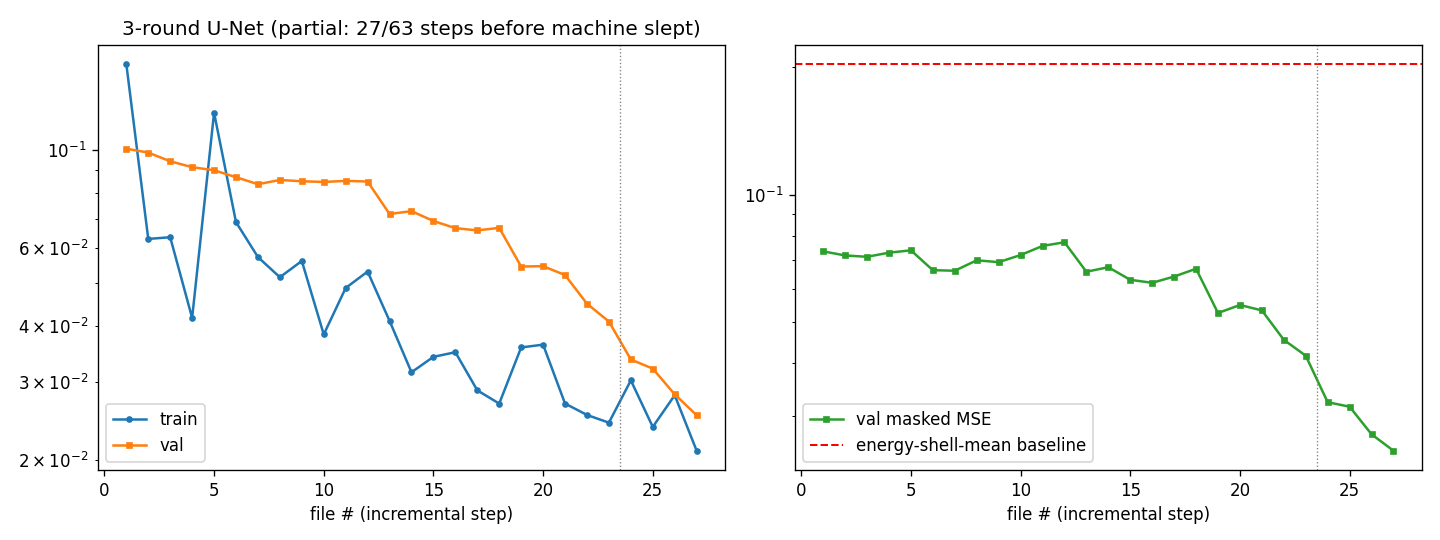
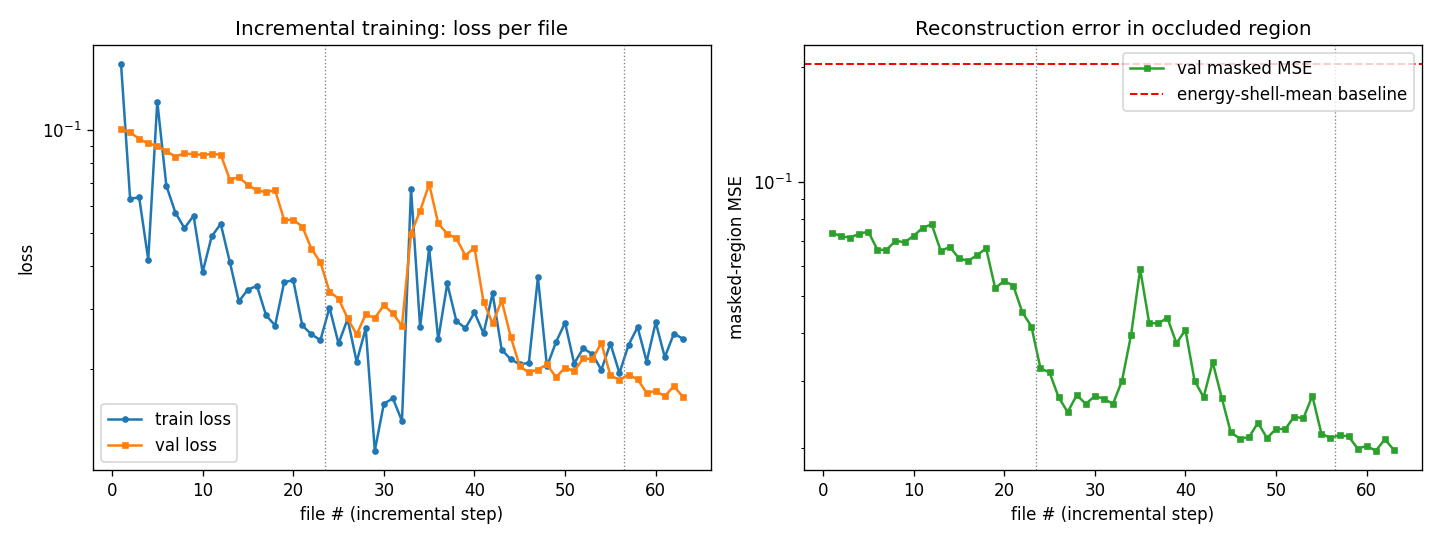
3-round U-Net completed via --resume; final result ~10x baseline
Resumed run finished all 63 steps. Final: val masked MSE 0.01984, MAE 0.0881
(~10.3x better than the energy-shell-mean interpolation baseline at 0.2035).

Round-by-round mean masked MSE: R1=0.067 -> R2=0.035 -> R3=0.023, monotonic.
Tiny wobble at the R2->R3 boundary (0.027 -> 0.034 -> 0.020 within a few files)
but no catastrophic forgetting -- replay buffer + warm-start working as
designed. Round-3 plateau sits at 0.019-0.022, so more rounds on the same data
have diminishing returns; the next real gain comes from more / more-diverse
data (NEXT_STEPS item 2).

The --resume mechanism (added mid-experiment after the first attempt died
overnight at step 27) was used in anger here -- no manual surgery, no spurious
loss jump on resume, run completed normally. End-to-end validation that
incremental training is robust to crashes.

diff --git a/RESULTS.md b/RESULTS.md
@@ -179,9 +179,26 @@ plasma-state-fingerprint visualisation, just not from a fully-converged encoder 
 
 ### 8d. Completed 3-round U-Net (continues §8b)
 
-> Filled when the resumed run completes (`outputs/unet_full_3rounds/`). What we expect to
-> learn from it: whether the curve continues its monotonic descent through all three rounds
-> (suggesting "more data" helps further), and whether round-3 forgetting appears.
+The resumed run finished all 63 incremental steps (`outputs/unet_full_3rounds/`):
+
+| | Masked MSE | Masked MAE | vs. baseline |
+|---|---:|---:|---:|
+| Energy-shell-mean baseline | 0.2035 | 0.4237 | 1.0× |
+| **3-D U-Net (full config, 3 rounds)** | **0.01984** | **0.0881** | **≈ 10.3× better** |
+
+**Round-by-round** (mean masked MSE within each round):  R1 = 0.067 → R2 = 0.035 → R3 = 0.023.
+The curve descends monotonically across rounds. Tiny wobble at the R2 → R3 boundary
+(0.027 → 0.034 → recovers to 0.020 within a few files) — visible but small, not catastrophic
+forgetting. Best single step was **0.01966** at step 61 (round 3); the round-3 plateau sits at
+0.019–0.022, so additional rounds on the same data have diminishing returns. **The next gain
+comes from more / more-diverse data, not more epochs** (NEXT_STEPS §2 — the GPU run).
+
+The resume mechanism (added mid-stream after the first attempt died overnight) was used in
+anger here — it picked up at step 27 with no manual surgery, validation loss continued exactly
+where it left off (no spurious jump from re-init), and the run completed normally.
+
+`outputs/unet_full_3rounds/{loss_curves.png, embeddings_pca.png}` show the learning curve and
+the bottleneck-embedding 2-D PCA scatter.
 
 ## 9. Honest limitations
 
